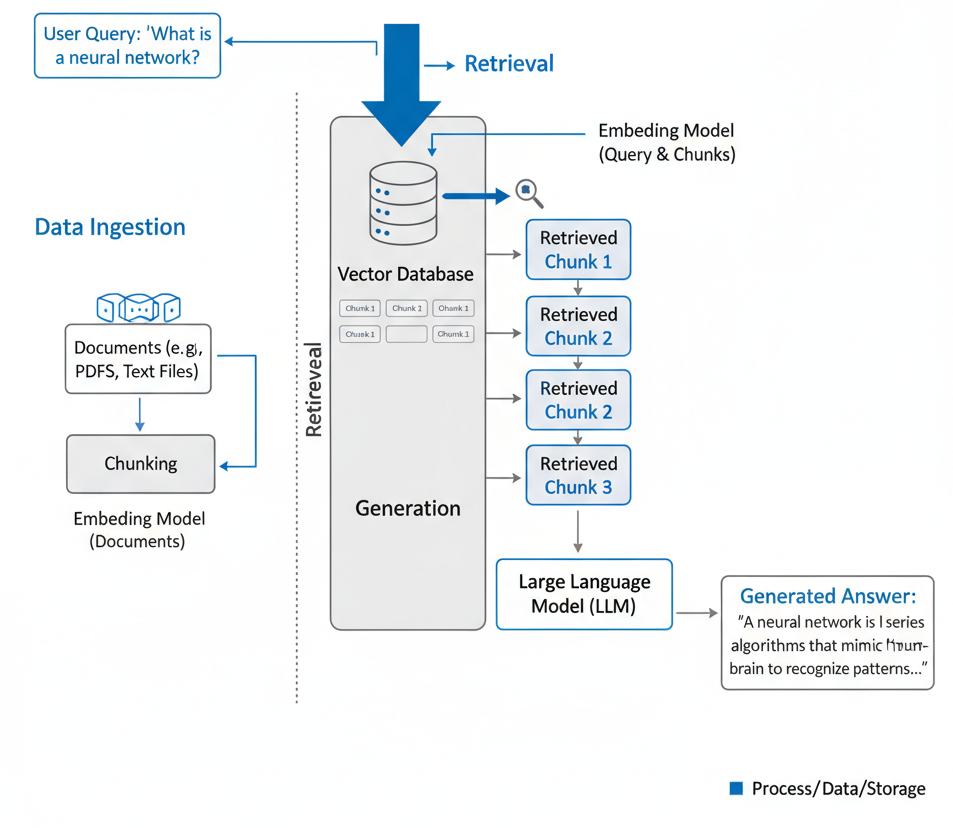
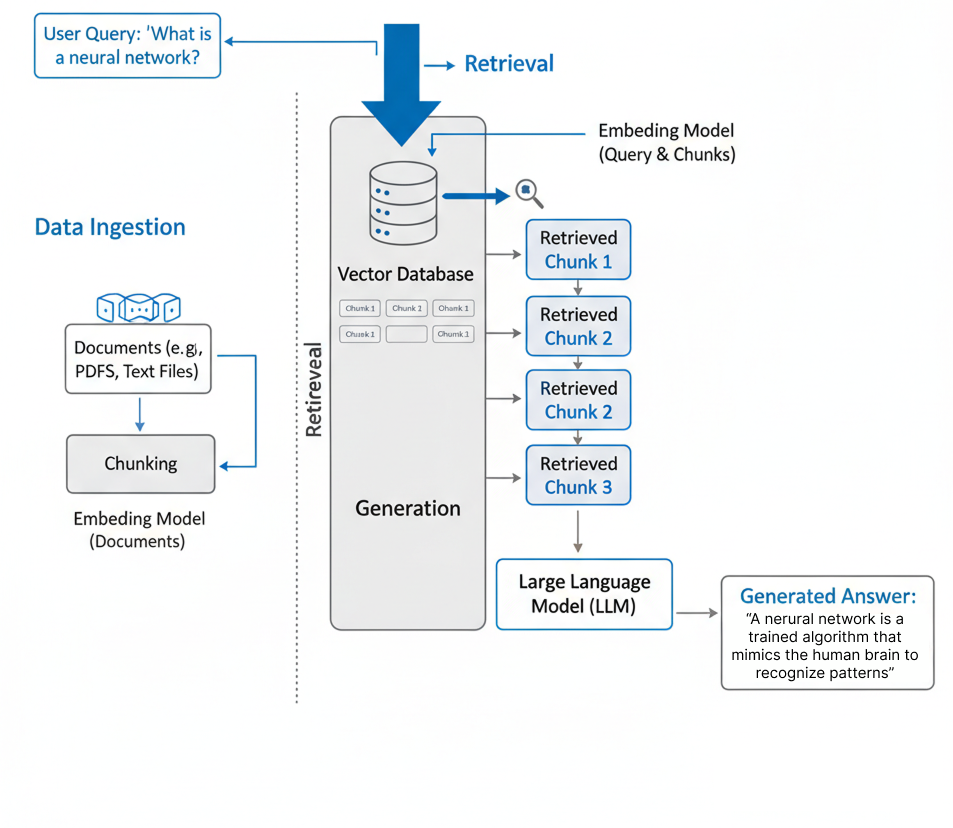
feedback 2

Changed region(s): [[0.7608, 0.7246, 0.9738, 0.8152], [0.7608, 0.936, 0.9738, 0.9662]]

diff --git a/chapter_3/agents.md b/chapter_3/agents.md
@@ -9,6 +9,14 @@ But it can't take any actions beyond that. For example if you ask "Can you provi
 
 This is where AI agents come into play. Agents are **autonomous systems** which are simply LLMs integrated with external **tools**. Tools are added functionalities such as a calculator, web-surfing, etc.  
 
+```{figure} ../figures/agent_definition.png
+:alt: ai agent
+:align: center
+:figclass: caption-centered
+
+Figure 3.1.1: The Anatomy of an LLM Agent. The LLM works here as the main "decision maker". Invoking the tools enables the LLM to have improved/specialized skills.  
+```
+
 >[!Tip]
 > Agents = LLM + Tools
 

diff --git a/chapter_1/background.md b/chapter_1/background.md
@@ -17,7 +17,7 @@ From there, we’ll shift toward practical applications of modern AI in biology,
 :align: center
 :figclass: caption-centered
 
-Figure 1: Evolution of AI (Created with gemini-3-flash-preview)
+Figure 1.1.1: Evolution of AI (Created with gemini-3-flash-preview)
 ```
 
 **1950s - Can Machines Think?:** AI didn’t start with code; it started with a question. In the 1950s, scientists began seriously asking whether machines could think. Alan Turing famously reframed the question into something more practical: instead of debating what “thinking” is, could a machine behave intelligently enough to be indistinguishable from a human? In the summer of 1956, a small group of researchers gathered at Dartmouth College for what would later be called the birth of Artificial Intelligence. John McCarthy coined the term "Artificial Intelligence" and proposed what he described as a "2-month, 10-man study" [@mccarthy1955dartmouthworkshop]. The proposal was ambitious. It suggested that key aspects of intelligence, including learning, might be described so precisely that a machine could simulate them. The topics they outlined sound surprisingly modern: natural language processing, neural networks, abstraction, creativity, and the theory of computation.
@@ -30,7 +30,7 @@ Support Vector Machines (SVMs) emerged as one of the first widely used algorithm
 
 **2010s - The Deep Learning Comeback:** For a while, neural networks were out of fashion. They had been explored since the 1980s, but training large networks was difficult, datasets were small, and computers were slow. Many researchers shifted toward other approaches. Then three things changed at once: 1) We had massive datasets, 2) We had powerful GPUs, and 3) We had a few key algorithmic improvements. DL reframed AI problems as representation learning. Instead of hand-designing features, multilayer neural networks could learn hierarchical features directly from raw data — pixels, audio signals, sequences. The moment that made everyone pay attention came in 2012. A team led by Alex Krizhevsky trained a large deep convolutional neural network on the ImageNet dataset — about 1.2 million images across 1000 categories [@krizhevsky2012imagenetclassificationwith]. Their model dramatically outperformed competitors in the ImageNet Large Scale Visual Recognition Challenge (ILSVRC). The top-5 error rate dropped from 26.2% (runner-up) to 15.3%. That wasn’t a small improvement. It was a shock. The system — later known as AlexNet — relied on GPU training, rectified linear units (ReLUs), architectural depth, and dropout regularization. But more importantly, it showed that deep neural networks could scale — and that performance improved as data and compute increased [@lecun2015deeplearning]. The lesson of the 2010s was clear: scale matters. With enough data and compute, neural networks could learn powerful representations directly from raw inputs.
 
-**2020s - Generative AI and Foundation Models:** If the 2010s were about learning powerful representations, the 2020s became about learning general-purpose models. The key technical breakthrough that made this possible was the transformer architecture, introduced in 2017 [@Vaswani]. Unlike earlier sequence models such as; RNNs [@rumelhart1986learning], LSTMs [@hochreiter1997long], transformers relied on a mechanism called attention, which allowed models to weigh relationships between all parts of an input at once. This made them dramatically better at modeling long-range dependencies in language, code, and even biological sequences. Just as importantly, transformers scaled extremely well. As researchers increased model size, dataset size, and compute, performance improved in a surprisingly smooth and predictable way. This "scaling behavior" made it feasible to train very large models on massive datasets. Instead of training a separate model for each problem, researchers began pretraining large transformer models on vast corpora (text from the internet, millions of protein sequences, genomic data) and then adapting them to specific tasks through fine-tuning or prompting. These became known as foundation models. In natural language, this led to large language models capable of reasoning, summarizing, coding, and assisting with scientific writing.
+**2020s - Generative AI and Foundation Models:** If the 2010s were about learning powerful representations, the 2020s became about learning general-purpose models. The key technical breakthrough that made this possible was the transformer architecture, introduced in 2017 [@Vaswani]. Unlike earlier sequence models such as RNNs [@rumelhart1986learning], LSTMs [@hochreiter1997long], transformers relied on a mechanism called attention, which allowed models to weigh relationships between all parts of an input at once. This made them dramatically better at modeling long-range dependencies in language, code, and even biological sequences. Just as importantly, transformers scaled extremely well. As researchers increased model size, dataset size, and compute, performance improved in a surprisingly smooth and predictable way. This "scaling behavior" made it feasible to train very large models on massive datasets. Instead of training a separate model for each problem, researchers began pretraining large transformer models on vast corpora (text from the internet, millions of protein sequences, genomic data) and then adapting them to specific tasks through fine-tuning or prompting. These became known as foundation models. In natural language, this led to large language models capable of reasoning, summarizing, coding, and assisting with scientific writing.
 
 # 1.1.2 AI in Science: From Data Overload to Discovery
 